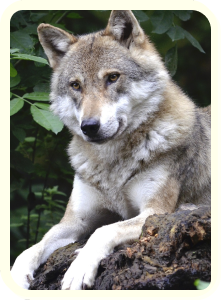
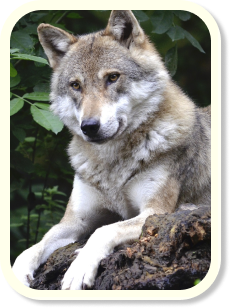
Fix: music stop play when game is launched

diff --git a/CardMatchingGame/Controller/ShopController.swift b/CardMatchingGame/Controller/ShopController.swift
@@ -385,6 +385,10 @@ class ShopController: UIViewController, UIGestureRecognizerDelegate {
 
         if !Properties.cardSet1isUnlocked {
             let confirm = UIAlertAction(title: "Buy", style: .default) { buy in
+                //audioFX:
+                let shiny = AudioFileKey.shiny.rawValue
+                self.audioFX.playSoundFX(name: shiny, isMuted: Properties.soundMutedSwitcher)
+                
                 //animation:
                 UIView.animate(withDuration: 1.0, animations: {
                     Properties.cardSet1isUnlocked = true
@@ -439,6 +443,10 @@ class ShopController: UIViewController, UIGestureRecognizerDelegate {
         
         if !Properties.cardSet2isUnlocked {
             let confirm = UIAlertAction(title: "Buy", style: .default) { buy in
+                //audioFX:
+                let shiny = AudioFileKey.shiny.rawValue
+                self.audioFX.playSoundFX(name: shiny, isMuted: Properties.soundMutedSwitcher)
+                
                 //animation:
                 UIView.animate(withDuration: 1.0, animations: {
                     Properties.cardSet2isUnlocked = true
@@ -493,6 +501,10 @@ class ShopController: UIViewController, UIGestureRecognizerDelegate {
         //alertController:
         if !Properties.coverSet1isUnlocked {
             let confirm = UIAlertAction(title: "Buy", style: .default) { buy in
+                //audioFX:
+                let shiny = AudioFileKey.shiny.rawValue
+                self.audioFX.playSoundFX(name: shiny, isMuted: Properties.soundMutedSwitcher)
+                
                 //animation:
                 UIView.animate(withDuration: 1.0, animations: {
                     Properties.coverSet1isUnlocked = true
@@ -538,6 +550,10 @@ class ShopController: UIViewController, UIGestureRecognizerDelegate {
         
         if !Properties.coverSet2isUnlocked {
             let confirm = UIAlertAction(title: "Buy", style: .default) { buy in
+                //audioFX:
+                let shiny = AudioFileKey.shiny.rawValue
+                self.audioFX.playSoundFX(name: shiny, isMuted: Properties.soundMutedSwitcher)
+                
                 //animation:
                 UIView.animate(withDuration: 1.0, animations: {
                     Properties.coverSet2isUnlocked = true

diff --git a/CardMatchingGame/View/ShopInterface.swift b/CardMatchingGame/View/ShopInterface.swift
@@ -347,7 +347,7 @@ class ShopInterface: UIView {
             contentBlock1.leadingAnchor.constraint(equalTo: topContainer.leadingAnchor, constant: 10),
             contentBlock1.trailingAnchor.constraint(equalTo: topContainer.trailingAnchor, constant: -10),
             contentBlock1.bottomAnchor.constraint(equalTo: topContainer.bottomAnchor, constant: -10),
-            contentBlock1.heightAnchor.constraint(lessThanOrEqualToConstant: 280),
+            contentBlock1.heightAnchor.constraint(lessThanOrEqualToConstant: 300),
             
             verticalSeparatorInBlock1.topAnchor.constraint(equalTo: contentBlock1.topAnchor),
             verticalSeparatorInBlock1.bottomAnchor.constraint(equalTo: contentBlock1.bottomAnchor),

diff --git a/CardMatchingGame/Model/Properties.swift b/CardMatchingGame/Model/Properties.swift
@@ -29,7 +29,7 @@ struct Properties {
     //debug gameOver:
     static var gameIsOver = false
     //turn off music:
-    static var generalBackgroundSoundIsMutedForTestPurposes = true
+    static var generalBackgroundSoundIsMutedForTestPurposes = false
     
     //Coins:
     static var coins = defaults.integer(forKey: CoinsKey.coins.rawValue)
